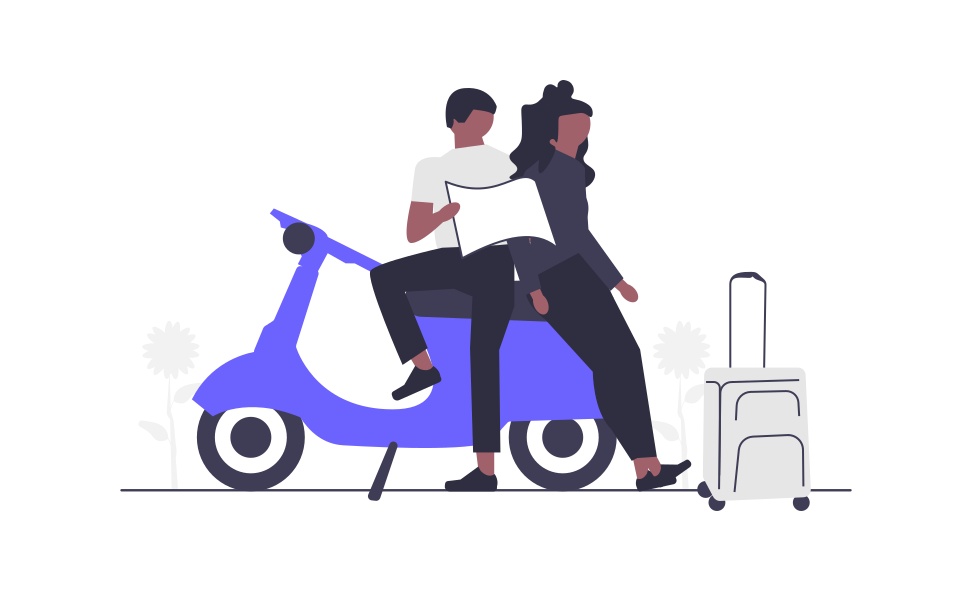
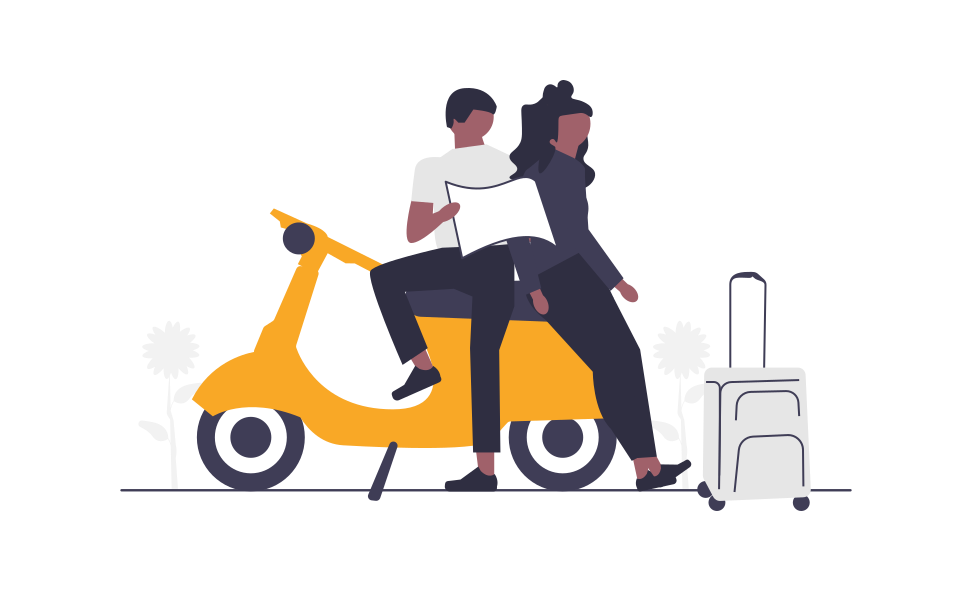
update ui

Changed region(s): [[0.1852, 0.335, 0.6173, 0.7614]]

diff --git a/lib/Screens/BoardingView/Slider.dart b/lib/Screens/BoardingView/Slider.dart
@@ -18,11 +18,11 @@ final sliderArrayList = [
       sliderHeading: SLIDER_HEADING_1,
       sliderSubHeading: SLIDER_DESC),
   Slider(
-      sliderImageUrl: 'assets/two.png',
+      sliderImageUrl: 'assets/travel2.png',
       sliderHeading: SLIDER_HEADING_2,
       sliderSubHeading: SLIDER_DESC),
   Slider(
-      sliderImageUrl: 'assets/three.png',
+      sliderImageUrl: 'assets/travel3.png',
       sliderHeading: SLIDER_HEADING_3,
       sliderSubHeading: SLIDER_DESC),
 ];

diff --git a/lib/utils/Buttons.dart b/lib/utils/Buttons.dart
@@ -20,7 +20,7 @@ class WideButton extends StatelessWidget {
       child: ElevatedButton(
           onPressed: onPressed,
           style: ElevatedButton.styleFrom(
-              primary: Colors.purple,
+              primary: Colors.orange,
               padding: const EdgeInsets.symmetric(horizontal: 50, vertical: 20),
               textStyle:
                   const TextStyle(fontSize: 30, fontWeight: FontWeight.bold)),

diff --git a/lib/Screens/SplashScreen.dart b/lib/Screens/SplashScreen.dart
@@ -16,7 +16,7 @@ class _SplashScreenState extends State<SplashScreen> {
   @override
   Widget build(BuildContext context) {
     return Scaffold(
-        backgroundColor: Colors.lightBlue,
+        backgroundColor: Colors.orange,
         body: Center(
           child: Column(
             mainAxisAlignment: MainAxisAlignment.center,

diff --git a/lib/Screens/SignInPage.dart b/lib/Screens/SignInPage.dart
@@ -23,7 +23,7 @@ class _SignInPageState extends State<SignInPage> {
       appBar: AppBar(
         elevation: 0.0,
         centerTitle: true,
-        title: NormalText("Sign In", kblack, 20.0),
+        
         backgroundColor: kwhite,
         iconTheme: IconThemeData(
           color: Colors.black,
